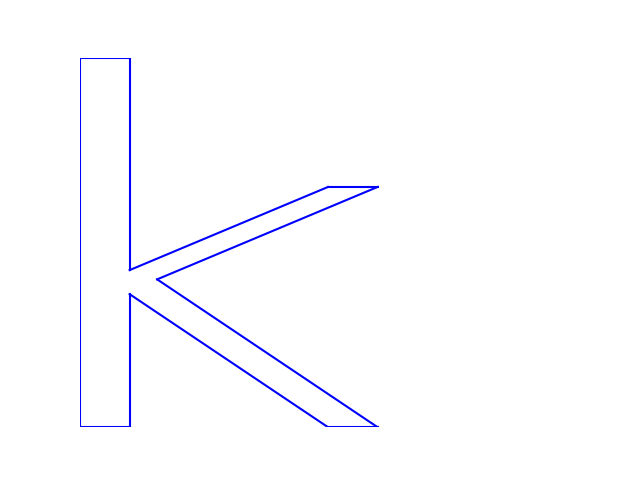
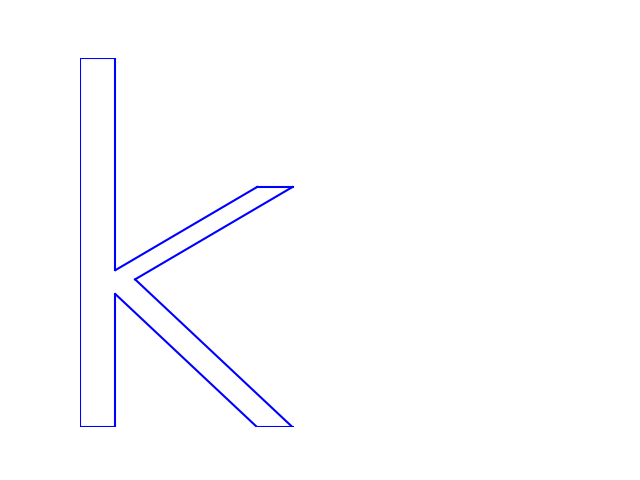
Made x axis longer so k looks better, image a little too wide tho

diff --git a/python/linear-algebra/draw_k.py b/python/linear-algebra/draw_k.py
@@ -22,7 +22,7 @@ for i in range(11):
         if adj[i, j] == 1:
             ax1.plot([k[0, i], k[0, j]], [k[1, i], k[1, j]], 'b')
 
-plt.xlim(0, 10)
+plt.xlim(0, 14)
 plt.ylim(0, 10)
 ax1.axis("off")
 show()
